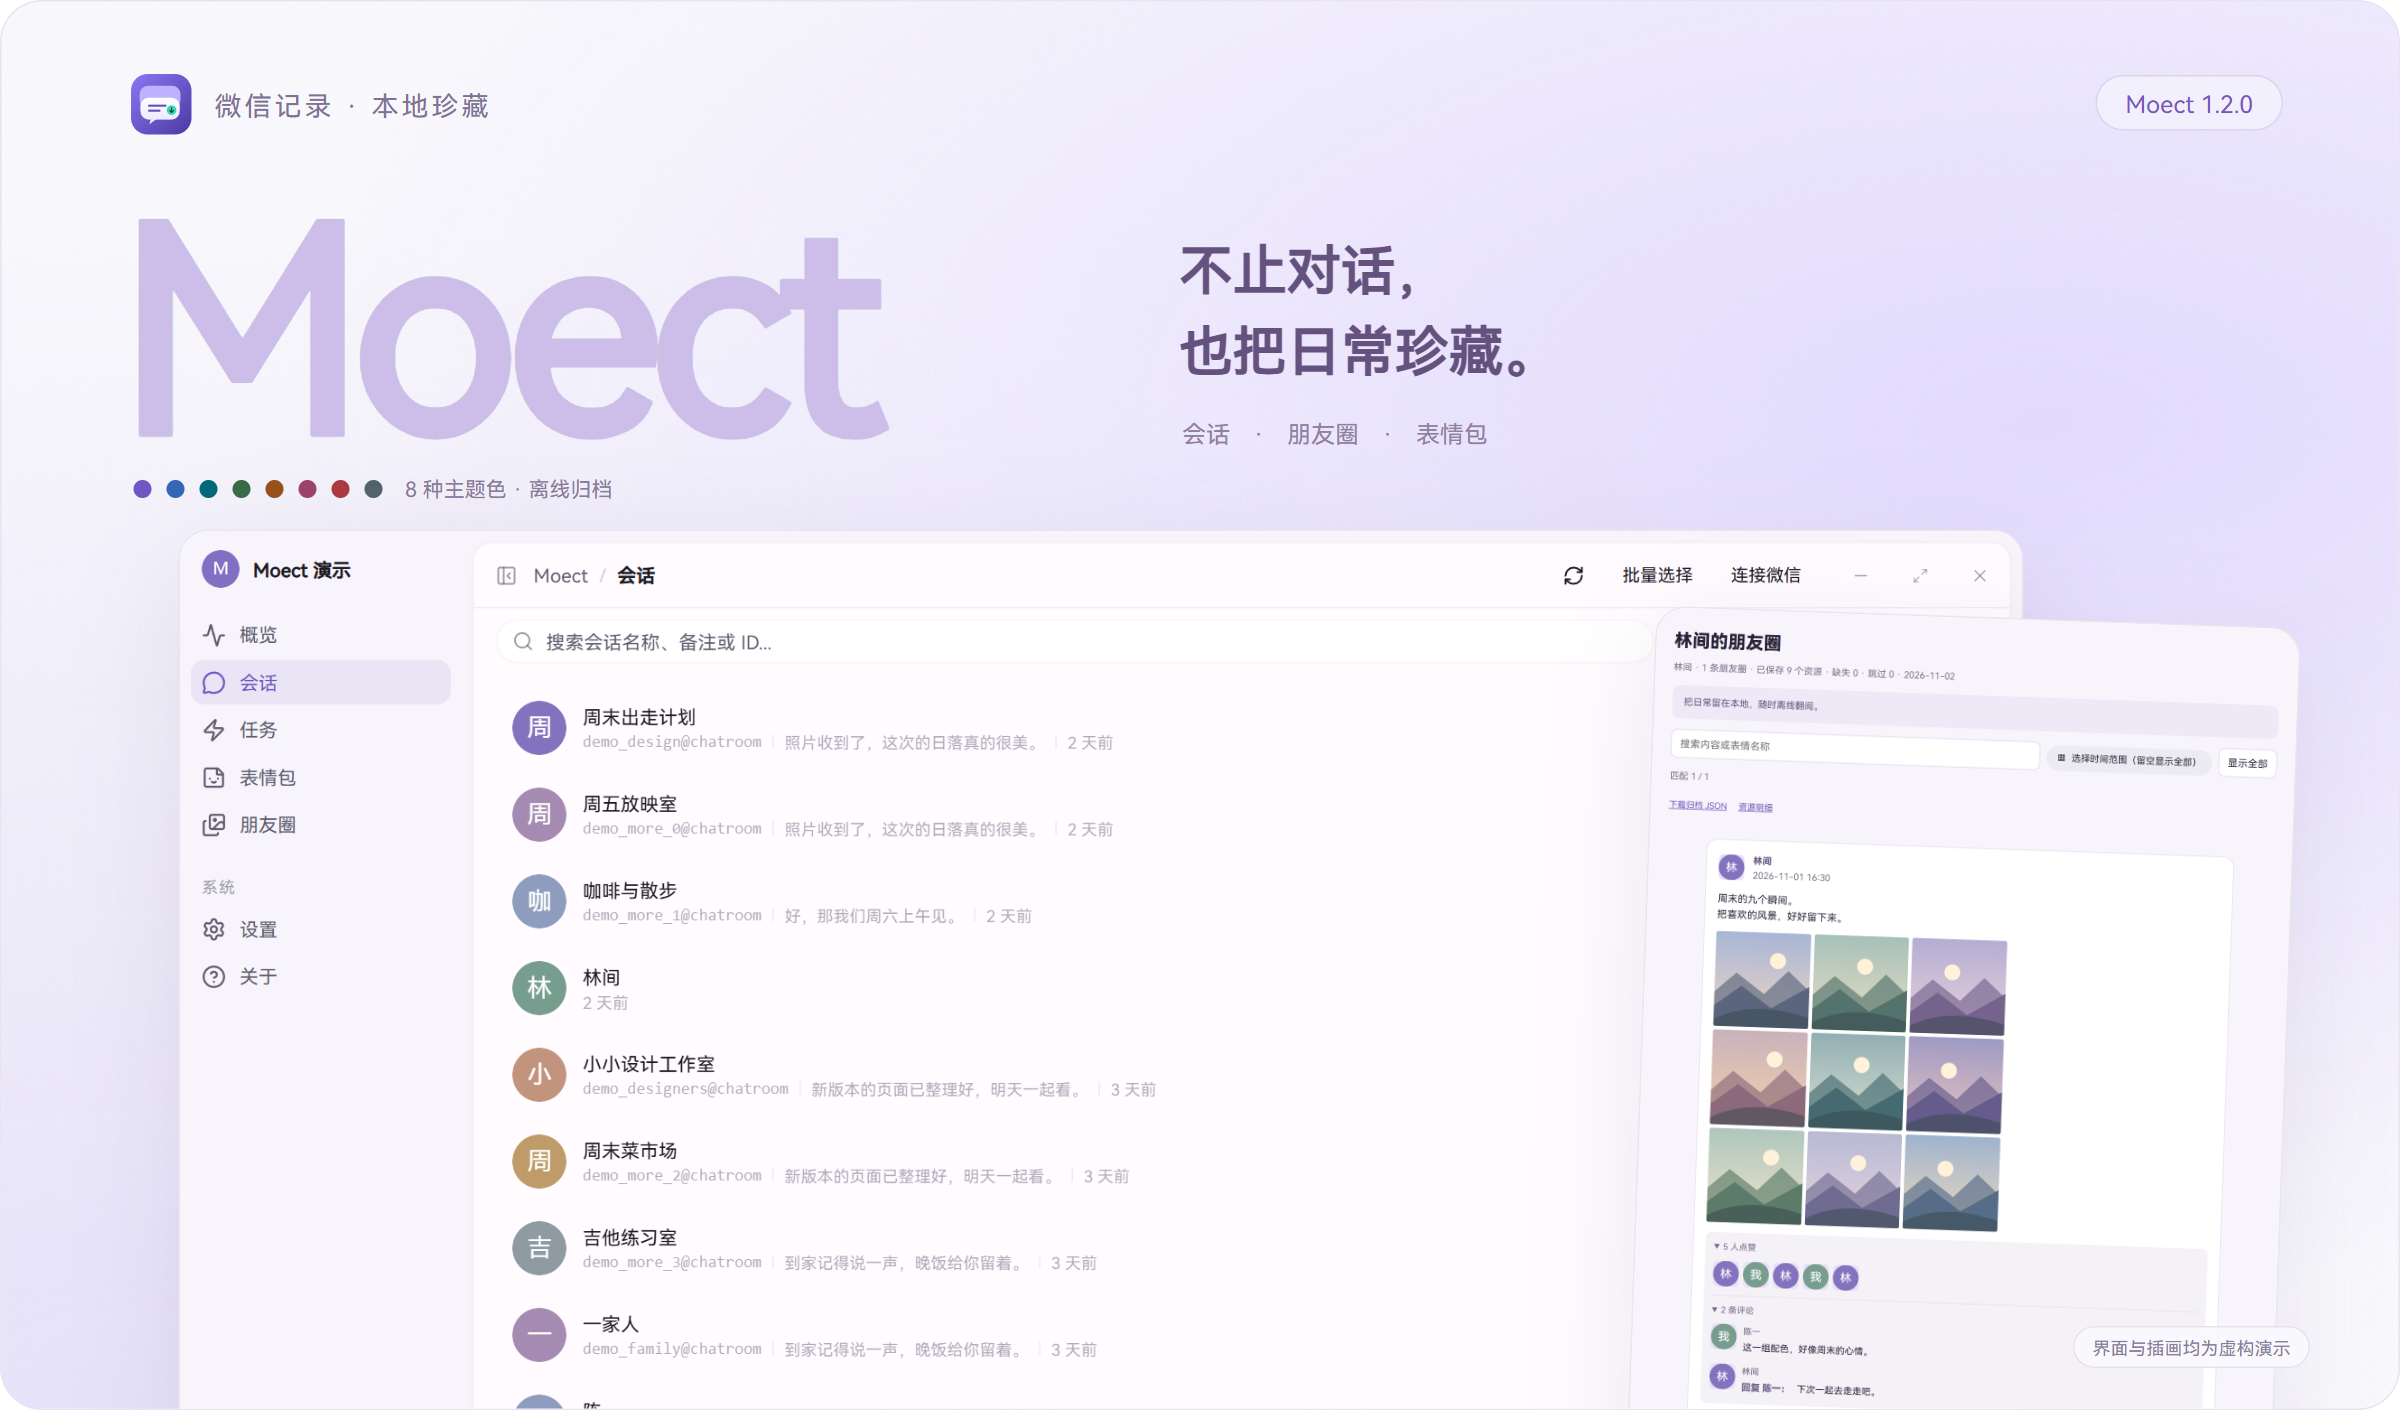
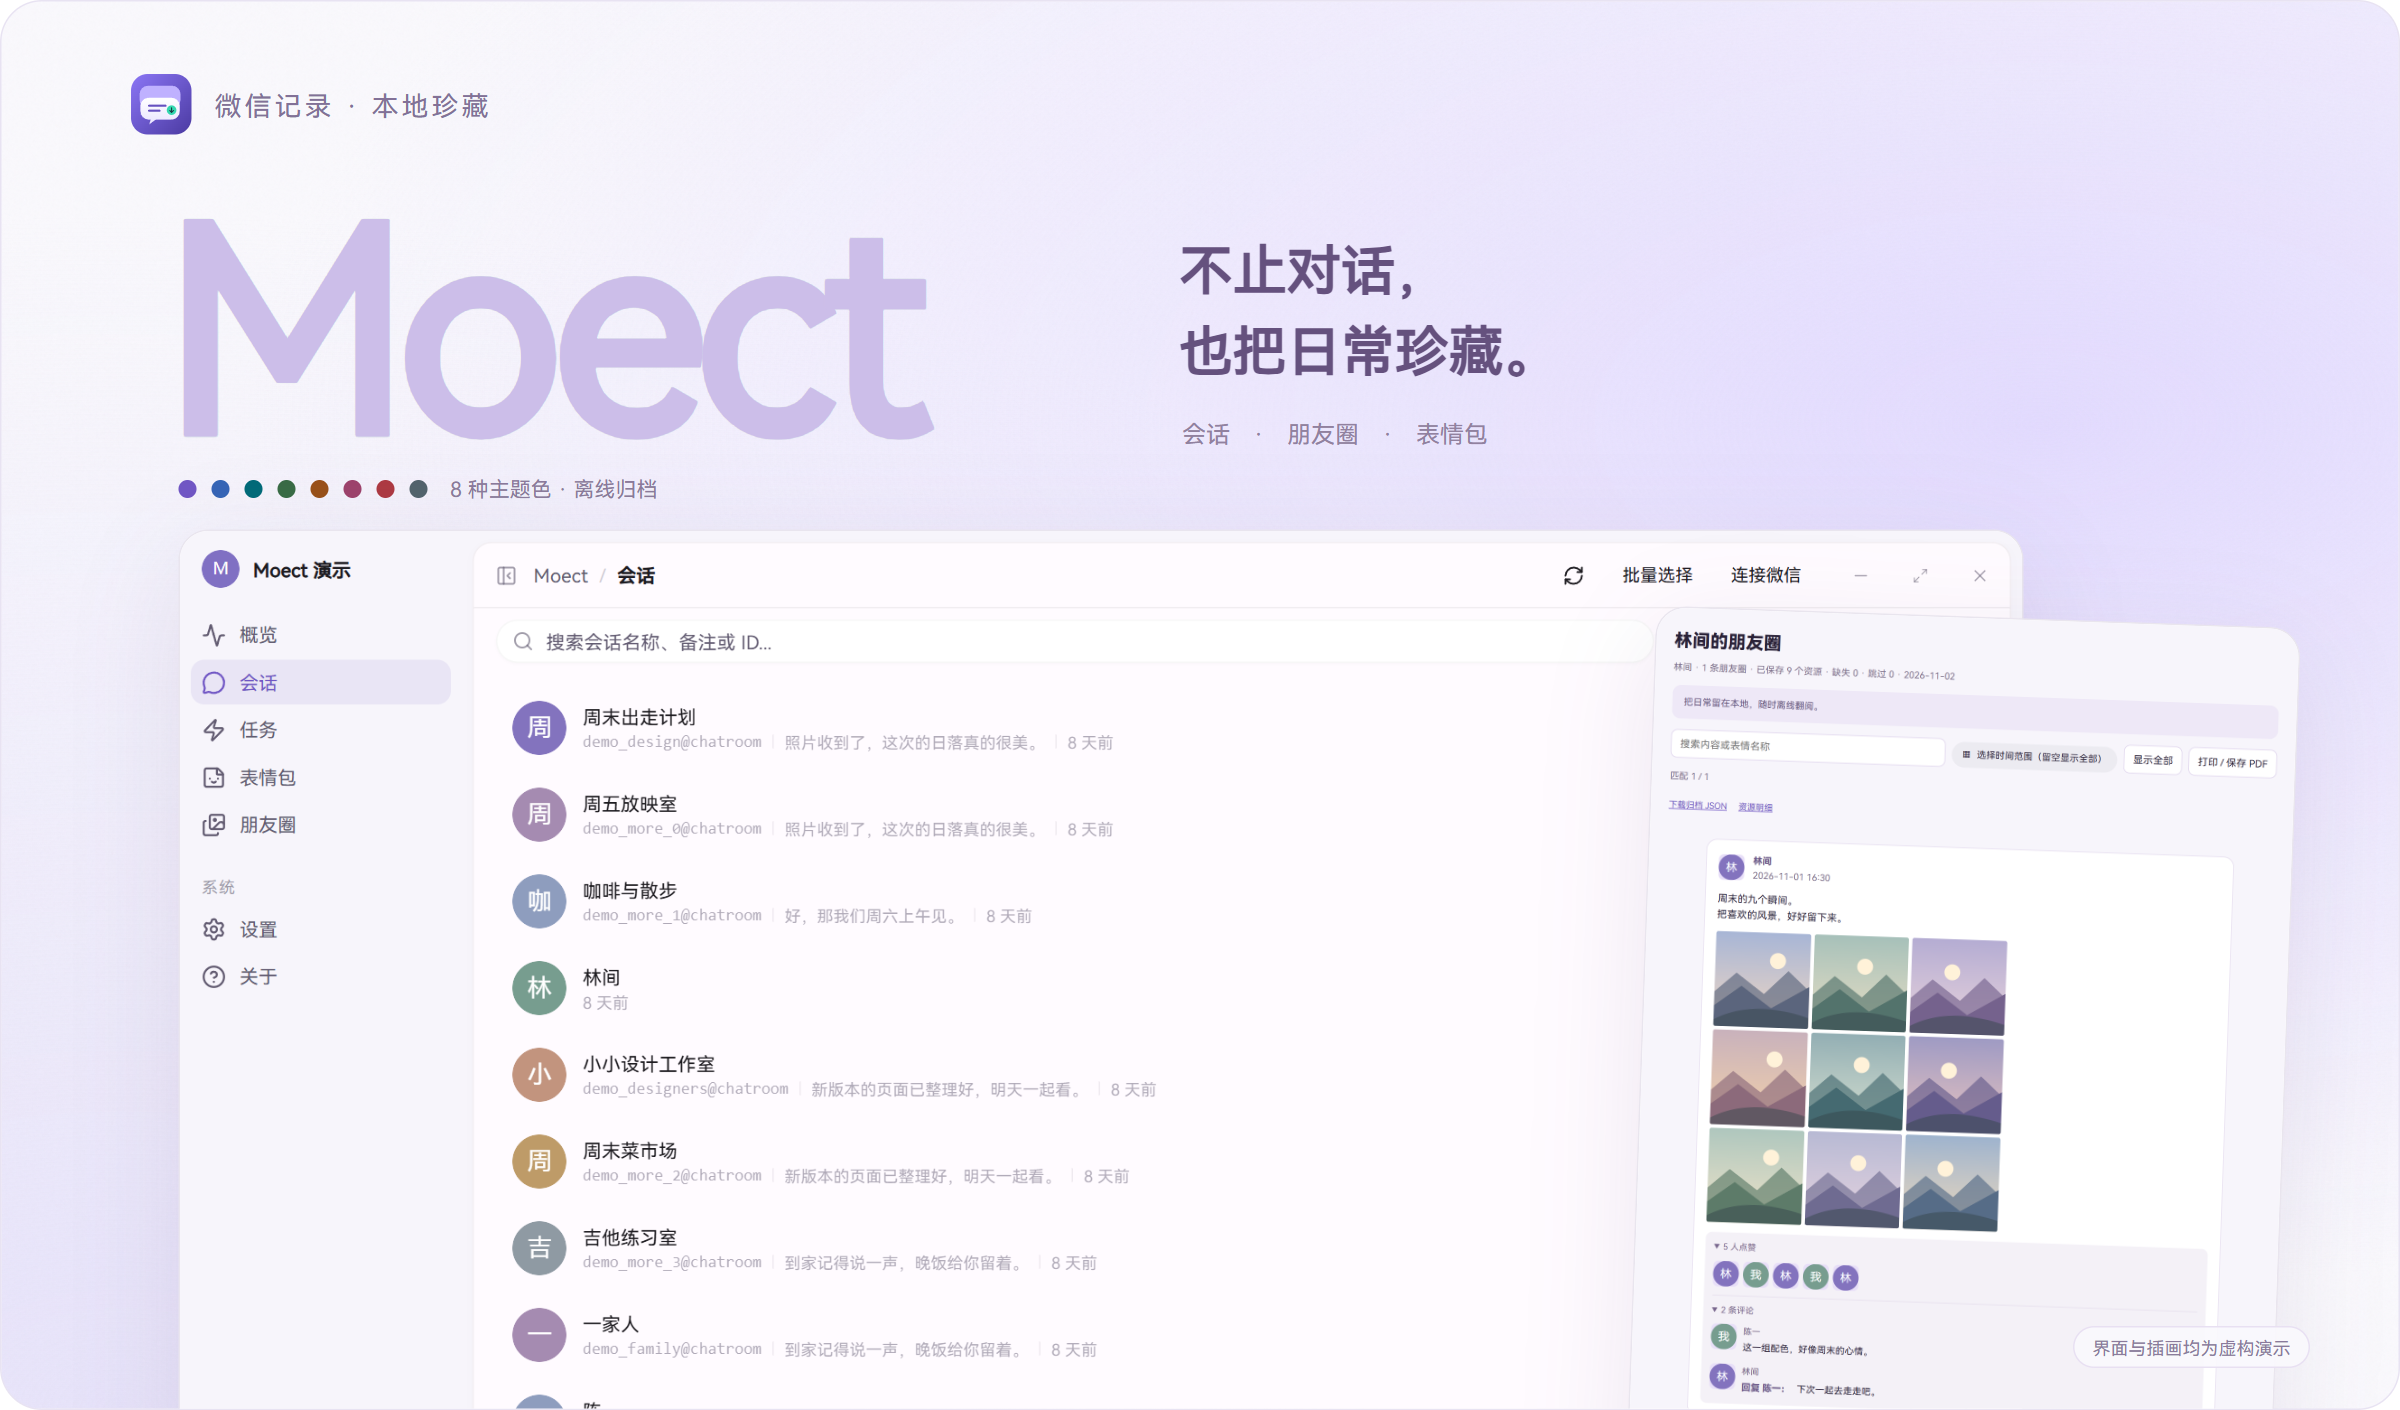
Refresh README cover without version badge and align title

diff --git a/docs/tools/render_assets.py b/docs/tools/render_assets.py
@@ -107,7 +107,7 @@ def layout(kind):
     </style>'''
     if kind=='banner':
         theme_dots=''.join(f'<i style="width:12px;height:12px;border-radius:50%;background:{row[2]};display:block"></i>' for row in ACCENTS)
-        return common+f'''<div class="art" style="height:940px"><div style="position:absolute;left:85px;top:47px;display:flex;gap:14px;align-items:center;color:#827197;font-size:18px;letter-spacing:2px"><img src="/ui/icon.svg" width="43">微信记录 · 本地珍藏</div><div class="chip" style="position:absolute;right:70px;top:49px;font-size:16px;padding:7px 19px;color:#7956bd">Moect {VERSION}</div><div style="position:absolute;left:78px;top:117px;font-size:190px;line-height:1;font-weight:800;color:#ccbee9;letter-spacing:-9px">Moect</div><div style="position:absolute;left:785px;top:151px;font-size:36px;font-weight:600;line-height:1.5;color:#65517e">不止对话，<br>也把日常珍藏。</div><div style="position:absolute;left:787px;top:277px;display:flex;gap:15px;font-size:16px;color:#91819f"><span>会话</span><span>·</span><span>朋友圈</span><span>·</span><span>表情包</span></div><div style="position:absolute;left:88px;top:315px;display:flex;align-items:center;gap:10px;color:#8b7a9b;font-size:14px">{theme_dots}<span style="margin-left:5px">8 种主题色 · 离线归档</span></div><div class="window" style="left:118px;top:352px;width:1230px"><img src="/docs/images/raw/sessions.png"></div><div class="window" style="left:1092px;top:410px;width:430px;transform:rotate(2deg)"><img src="/docs/images/raw/moments-viewer.png"></div><div style="position:absolute;right:59px;bottom:27px;font-size:12px;color:#8b7b9c;background:#faf9fdeb;padding:5px 12px;border:1px solid #e8e0f2;border-radius:20px">界面与插画均为虚构演示</div></div>'''
+        return common+f'''<div class="art" style="height:940px"><div style="position:absolute;left:85px;top:47px;display:flex;gap:14px;align-items:center;color:#827197;font-size:18px;letter-spacing:2px"><img src="/ui/icon.svg" width="43">微信记录 · 本地珍藏</div><div style="position:absolute;left:108px;top:117px;font-size:190px;line-height:1;font-weight:800;color:#ccbee9;letter-spacing:-9px">Moect</div><div style="position:absolute;left:785px;top:151px;font-size:36px;font-weight:600;line-height:1.5;color:#65517e">不止对话，<br>也把日常珍藏。</div><div style="position:absolute;left:787px;top:277px;display:flex;gap:15px;font-size:16px;color:#91819f"><span>会话</span><span>·</span><span>朋友圈</span><span>·</span><span>表情包</span></div><div style="position:absolute;left:118px;top:315px;display:flex;align-items:center;gap:10px;color:#8b7a9b;font-size:14px">{theme_dots}<span style="margin-left:5px">8 种主题色 · 离线归档</span></div><div class="window" style="left:118px;top:352px;width:1230px"><img src="/docs/images/raw/sessions.png"></div><div class="window" style="left:1092px;top:410px;width:430px;transform:rotate(2deg)"><img src="/docs/images/raw/moments-viewer.png"></div><div style="position:absolute;right:59px;bottom:27px;font-size:12px;color:#8b7b9c;background:#faf9fdeb;padding:5px 12px;border:1px solid #e8e0f2;border-radius:20px">界面与插画均为虚构演示</div></div>'''
     cards={
       'features-1':('01 / 朋友圈与表情包','把日常的碎片，<br><em>也收进回忆里。</em>','按账号与时间整理朋友圈，<br>把收藏的表情，按分类保存。','moments.png','九宫格与互动 · 动画表情 · 离线阅读'),
       'features-2':('02 / 本地离线归档','打开归档，<br><em>就回到那段对话。</em>','图片、表情与可直接播放的语音，<br>随可用资源一起保存在本地。','viewer.png','数字分页 · 时间筛选 · 合并转发'),

diff --git a/README.md b/README.md
@@ -1,4 +1,4 @@
-[![Moect 会话、朋友圈与表情包，本地珍藏](docs/images/banner.png?v=1.2.0)](https://github.com/mofan6/Moect/releases/latest)
+[![Moect 会话、朋友圈与表情包，本地珍藏](docs/images/banner.png?v=5394f334b97e)](https://github.com/mofan6/Moect/releases/latest)
 
 **Moect 是一个在 Windows 上读取、整理与导出微信聊天记录的桌面工具。**
 
